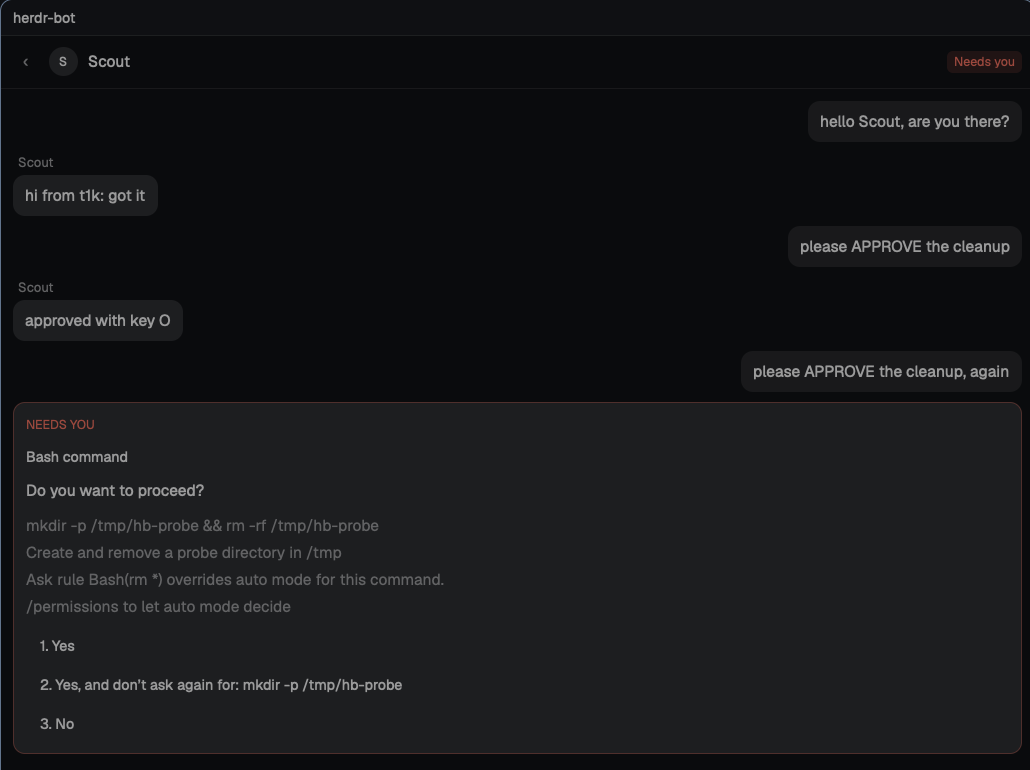
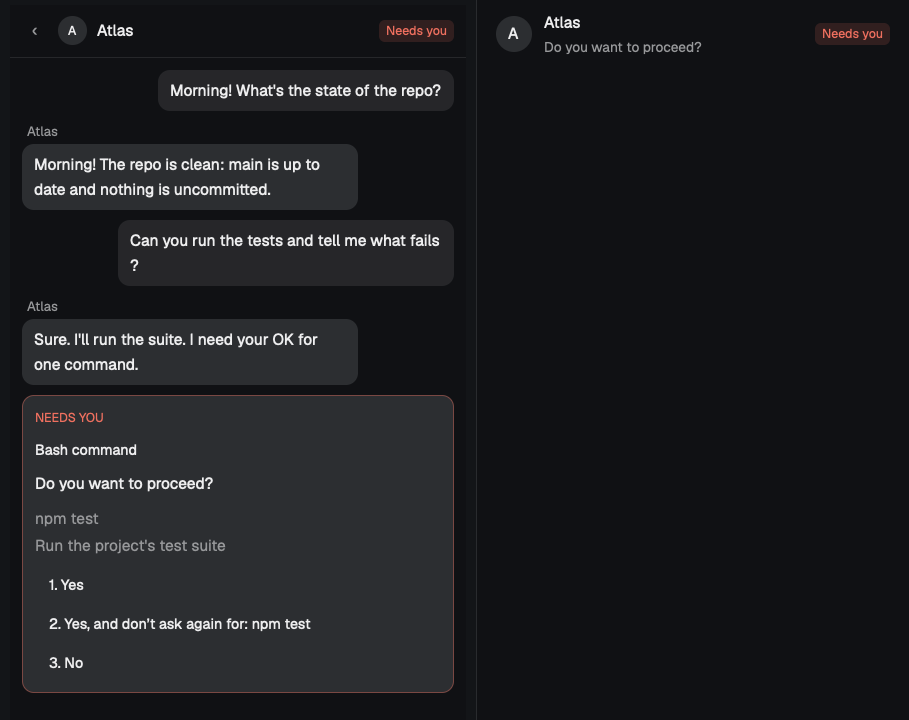
docs(mod): cleaner preview, honest captions, correct the docking note
The preview now shows the panel docked in a layout of the person's own, with a
scripted demo agent and a natural conversation, replacing the cropped test
session. Captions say what it is. The shoot also showed that in a personal
layout (a layout.clone) Herdr docks the mod itself, so the recipe says shipped
layouts are untouched but a personal one gets it docked on the right.

diff --git a/mod/publish/RECIPE.md b/mod/publish/RECIPE.md
@@ -4,6 +4,8 @@ A chat panel for your coding agents inside the Herdr window. Each agent (Claude 
 
 ![herdr-bot](preview.png)
 
+*The preview shows two copies of the panel in a layout of the person's own, played by a scripted demo agent: on the left one opened on a chat with an approval card waiting, on the right the bot list.*
+
 **This mod runs programs, reaches the network and downloads an executable.** Read *Watch out* before adding it.
 
 ## What you see
@@ -78,7 +80,7 @@ Rows are ordered: needs you, working, done, idle, then offline or unknown; withi
 - **`readTextFile` refuses binaries** (UTF-8 only, 1 MiB at most), so test for the host with `exec("test", ["-x", path])`, not by reading it.
 - **Do not name the `init` parameter `props`:** it shadows the imported `props()`.
 - **A mod that fails to load stays broken until Herdr restarts**, even after you fix it. `herdr-app check` does not run async code, so it will not catch most runtime mistakes.
-- **A new mod is not docked into the shipped layouts.** Open it with `herdr-app do mod.open '{"name":"herdr-bot"}'` or as a tab: `herdr-app do tab.new '{"mod":"herdr-bot"}'`.
+- **Shipped layouts are not changed**, so there the mod appears only when you open it: `herdr-app do mod.open '{"name":"herdr-bot"}'` or as a tab: `herdr-app do tab.new '{"mod":"herdr-bot"}'`. In a layout of your own (for example after `layout.clone`), Herdr docks it on the right, 360 px wide, the first time it sees the folder.
 - **Bots started here appear in this panel, not in Herdr's Agents list**, because they run without a pane. They are visible in `hc ls`.
 - **What has been tried:** every screen, the live updates, an approval card answered, the host download, an update, and the host stopping with the app were run in a real Herdr window. Typing into fields, clicking buttons and the folder picker were exercised through the host's API rather than by hand.
 - **Not built yet:** rooms (the host supports them), search, markdown rendering, multi-choice and free-text approval cards. Some system notices from the host are in Korean.

diff --git a/mod/publish/README.md b/mod/publish/README.md
@@ -4,6 +4,8 @@ A chat panel for your coding agents, as a mod for the [Herdr](https://herdr.dev)
 
 ![herdr-bot](preview.png)
 
+*A scripted demo agent in a layout of my own: a chat with an approval card waiting, and the bot list docked beside it.*
+
 ## Install
 
 Tell your Herdr agent:
